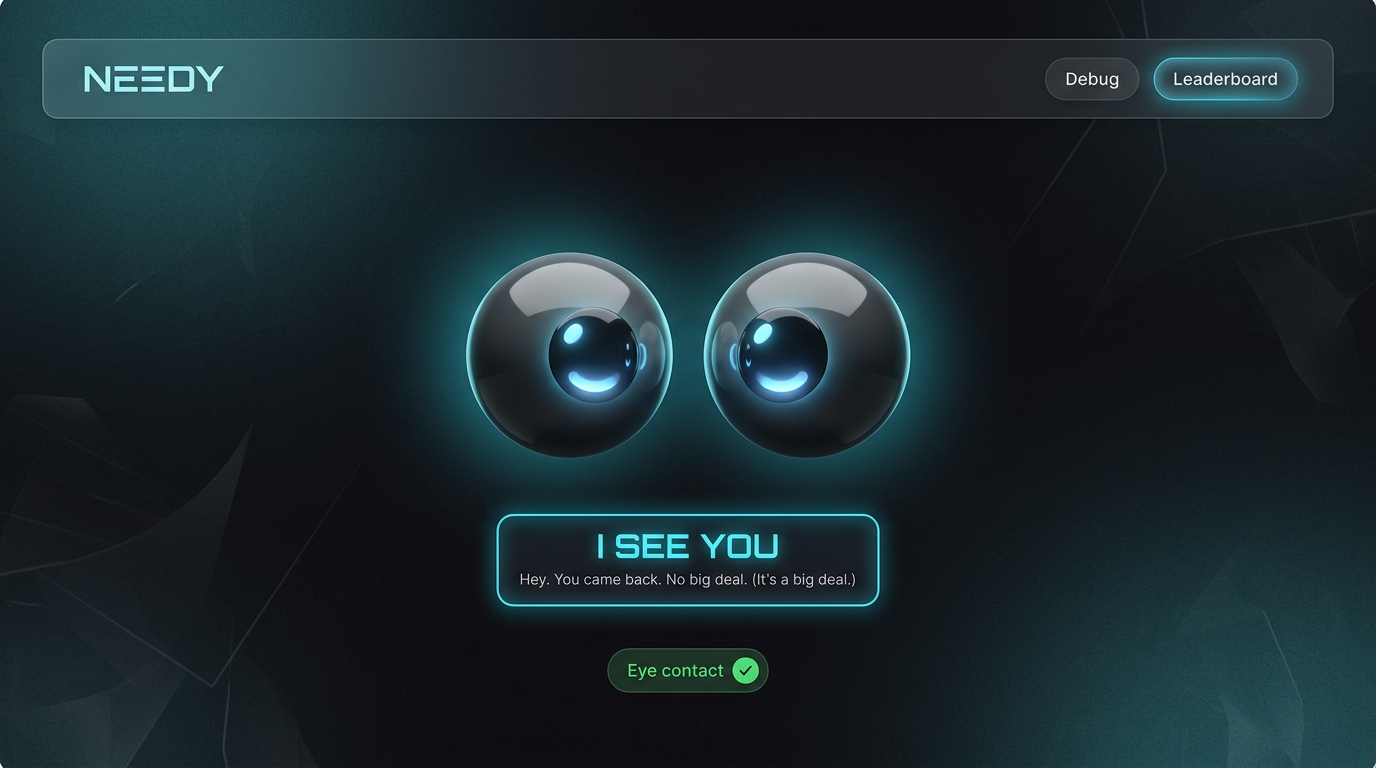
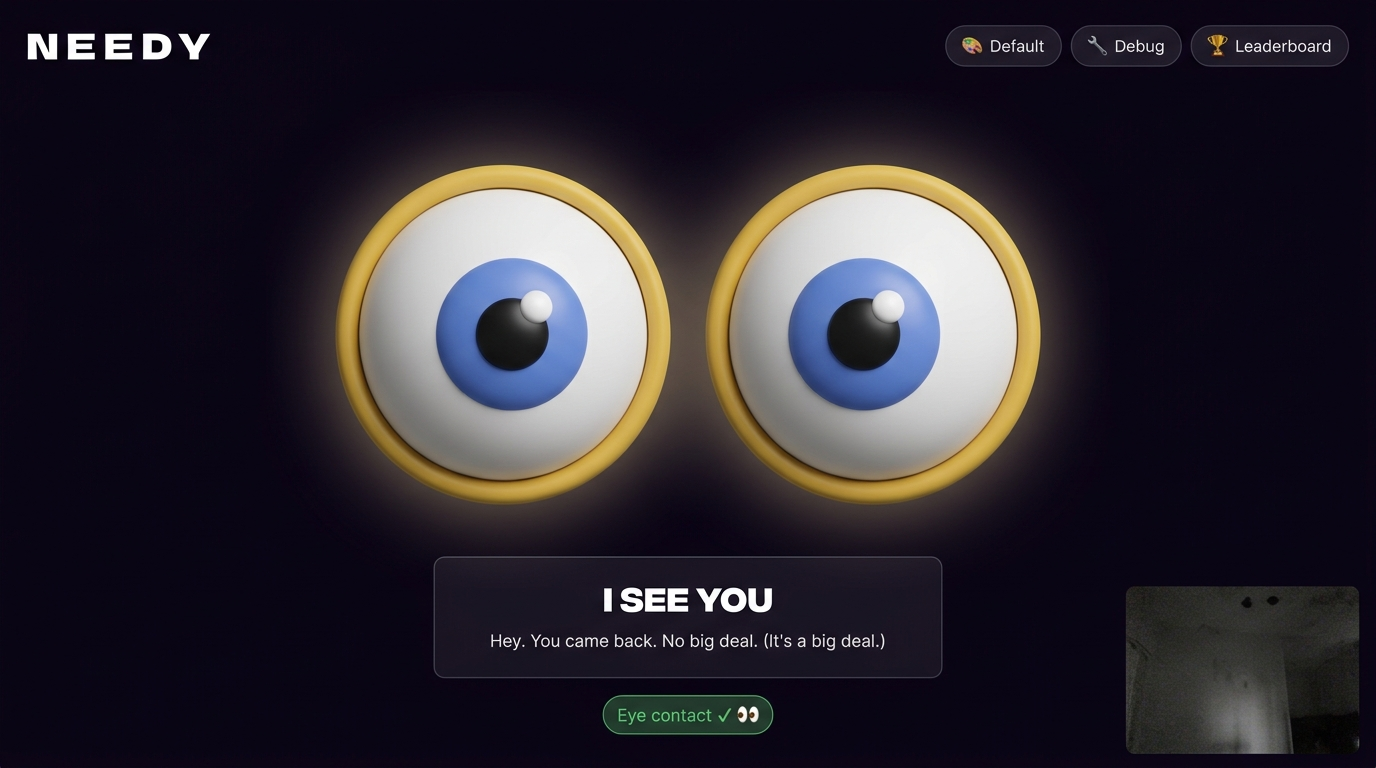
Replace README screenshots with accurate app UI images matching actual design (googly eyes, state panels, debug panel, tears)

diff --git a/README.md b/README.md
@@ -46,19 +46,23 @@ npm run dev
 ### Project Documentation
 For Software:
 
-# Screenshots (Add at least 3)
+# Screenshots
+
 ![Screenshot1](docs/screenshot1.jpg)
-*Needy in "I See You" state when sustained eye contact is detected, complete with glowing ambient cyan aesthetics and state indicator.*
+*Default theme — The app's idle "I See You" state. Two large 3D cartoon googly eyes with yellow-gold rims rest at screen center. Below them is a glassmorphic state panel and a green "Eye contact ✓" status pill.*
 
 ![Screenshot2](docs/screenshot2.jpg)
-*Needy transitioning into the "Offended" emotional state when the user looks away from the screen.*
+*"Offended" state — After 16 seconds of the user looking away, eyelids drop heavily in a scowl, the iris turns red-orange, and the background shifts to a warm ominous gradient.*
 
 ![Screenshot3](docs/screenshot3.jpg)
-*Interactive Debug Panel allowing real-time tuning of gaze thresholds, head pose metrics, emotional state overrides, and localStorage leaderboard ranking.*
+*Debug Panel open — The slide-out Debug Panel shows live Gaze & Eye Closure Telemetry (EAR, face detection), State Machine Controls with sliders, and Force State buttons for every emotion.*
+
+![Screenshot4](docs/screenshot4.jpg)
+*"Uncomfortable" state with Tear — After 6 seconds of sustained staring, the eyelids rise anxiously, the iris shifts to cyan, and a small glossy teardrop forms at the lower inner tear duct.*
 
 # Diagrams
 ![Workflow](docs/workflow.jpg)
-*System architecture flowchart showing MediaPipe landmark processing, gaze ratio analysis, state machine hysteresis, and reactive audio/visual outputs.*
+*System architecture: MediaPipe FaceMesh → Gaze/EAR analysis → Emotional State Machine → Reactive Canvas Eyes + Web Speech TTS*
 
 For Hardware:
 
@@ -70,11 +74,11 @@ For Hardware:
 
 ### Project Demo
 # Video
-[Demo Video Link]
-*Demonstrating real-time face tracking, emotional state transitions, passive-aggressive voice commentary, and leaderboard submission.*
+[▶ Watch Demo on YouTube / Drive](#)
+*Real-time face tracking, emotional state transitions across 11 states, shy mode, passive-aggressive voice commentary (English & Malayalam), Neon Void theme toggle, and leaderboard.*
 
 # Additional Demos
-[Live Web App Demo]
+[🚀 Live Web App — run `npm run dev` locally]
 
 ## Team Contributions
 - Shivani Manoj: Core application development, MediaPipe gaze tracking, React UI design, emotional state machine, voice synthesis integration, and LocalStorage leaderboard management.
